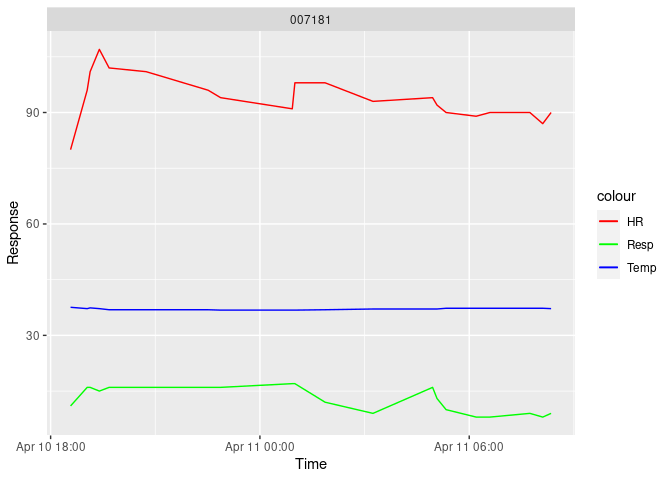
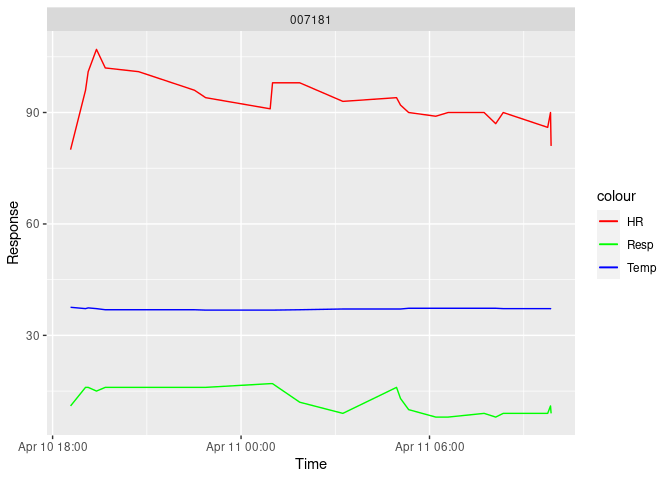
Updated report

diff --git a/AutoSepReport.md b/AutoSepReport.md
@@ -10,7 +10,7 @@ heart rate (HR), temperature (Temp), and respiratory rate (Resp).
 
 ### Report last updated:
 
-2023-04-11 09:07:02
+2023-04-11 10:07:24
 
 ## Physio Measures for Sampled Sepsis Patients
 
@@ -37,4 +37,4 @@ heart rate (HR), temperature (Temp), and respiratory rate (Resp).
 
 | PatientID | Change in Heart Rate | Change in Temperature | Change in Respiratory Rate |
 |:----------|---------------------:|----------------------:|---------------------------:|
-| 007181    |                    3 |                  -0.1 |                          1 |
+| 007181    |                   -9 |                  -0.1 |                         -2 |
